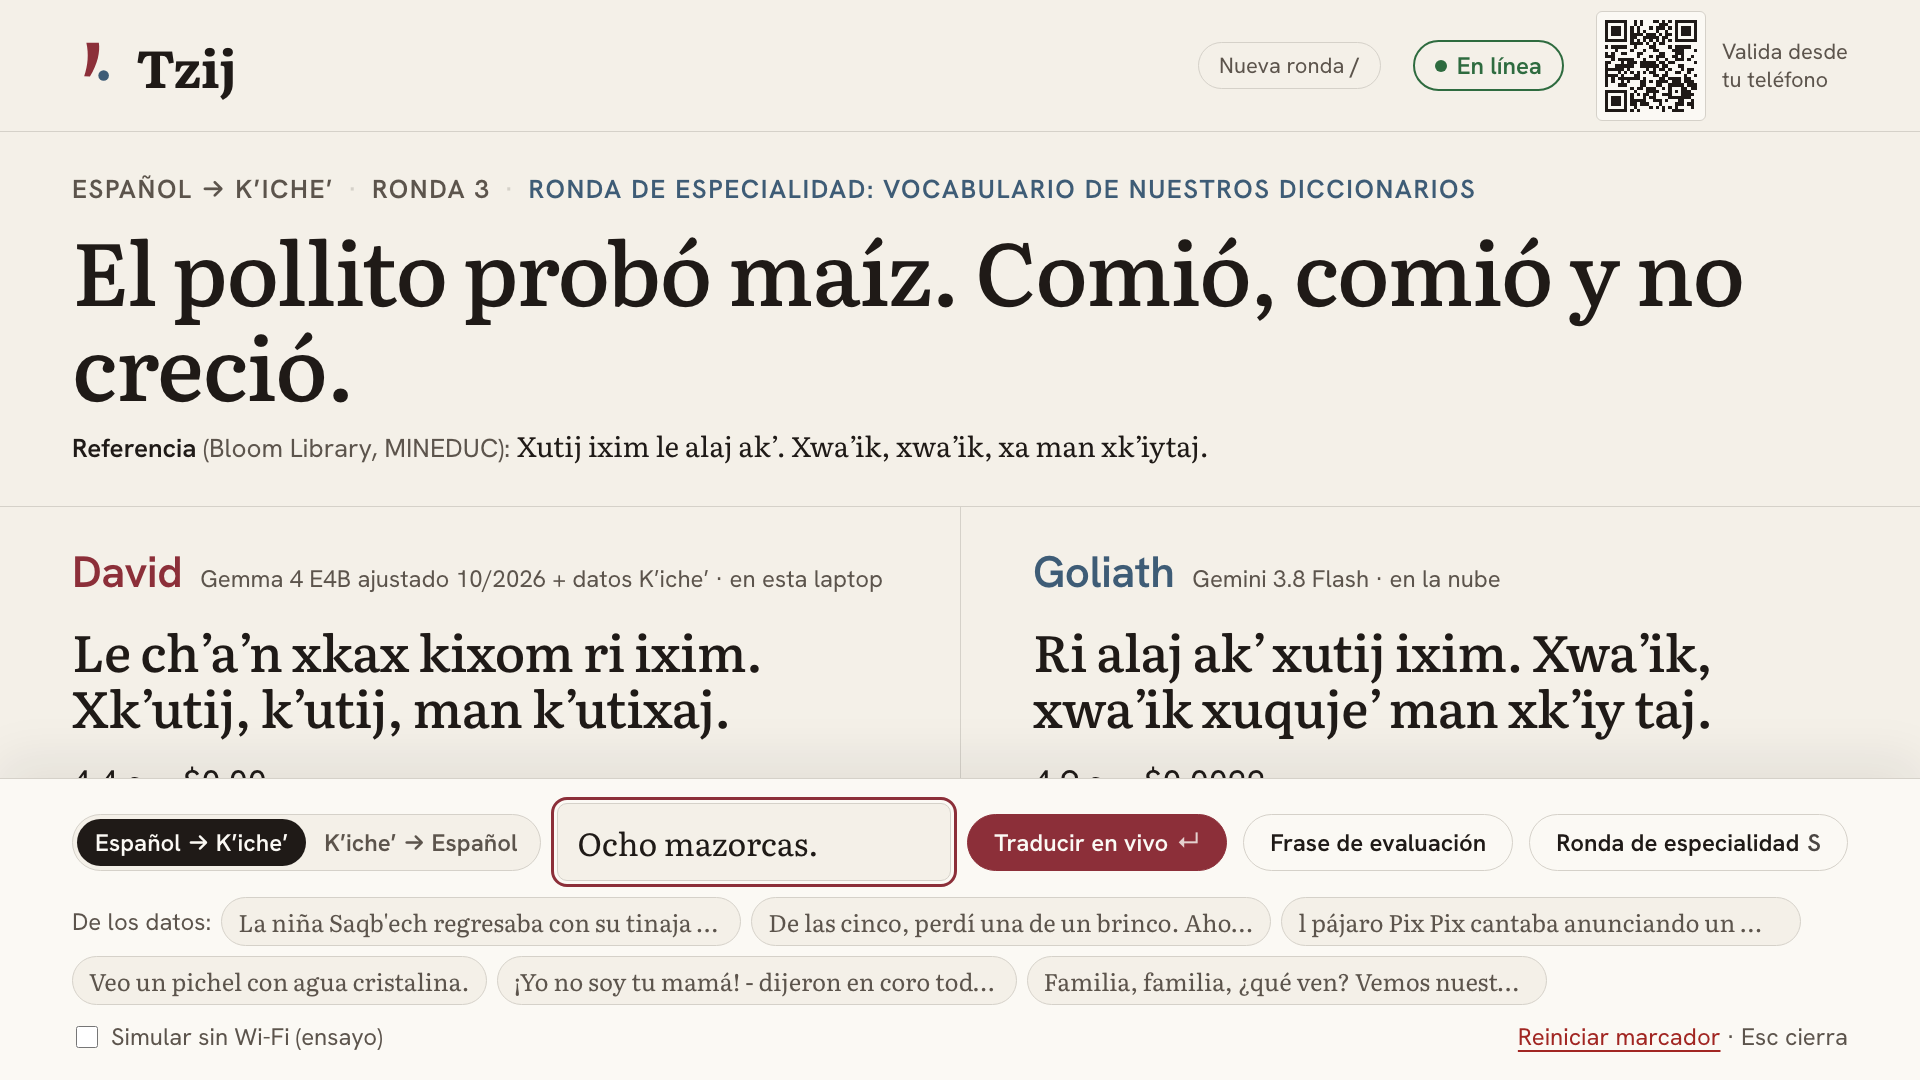
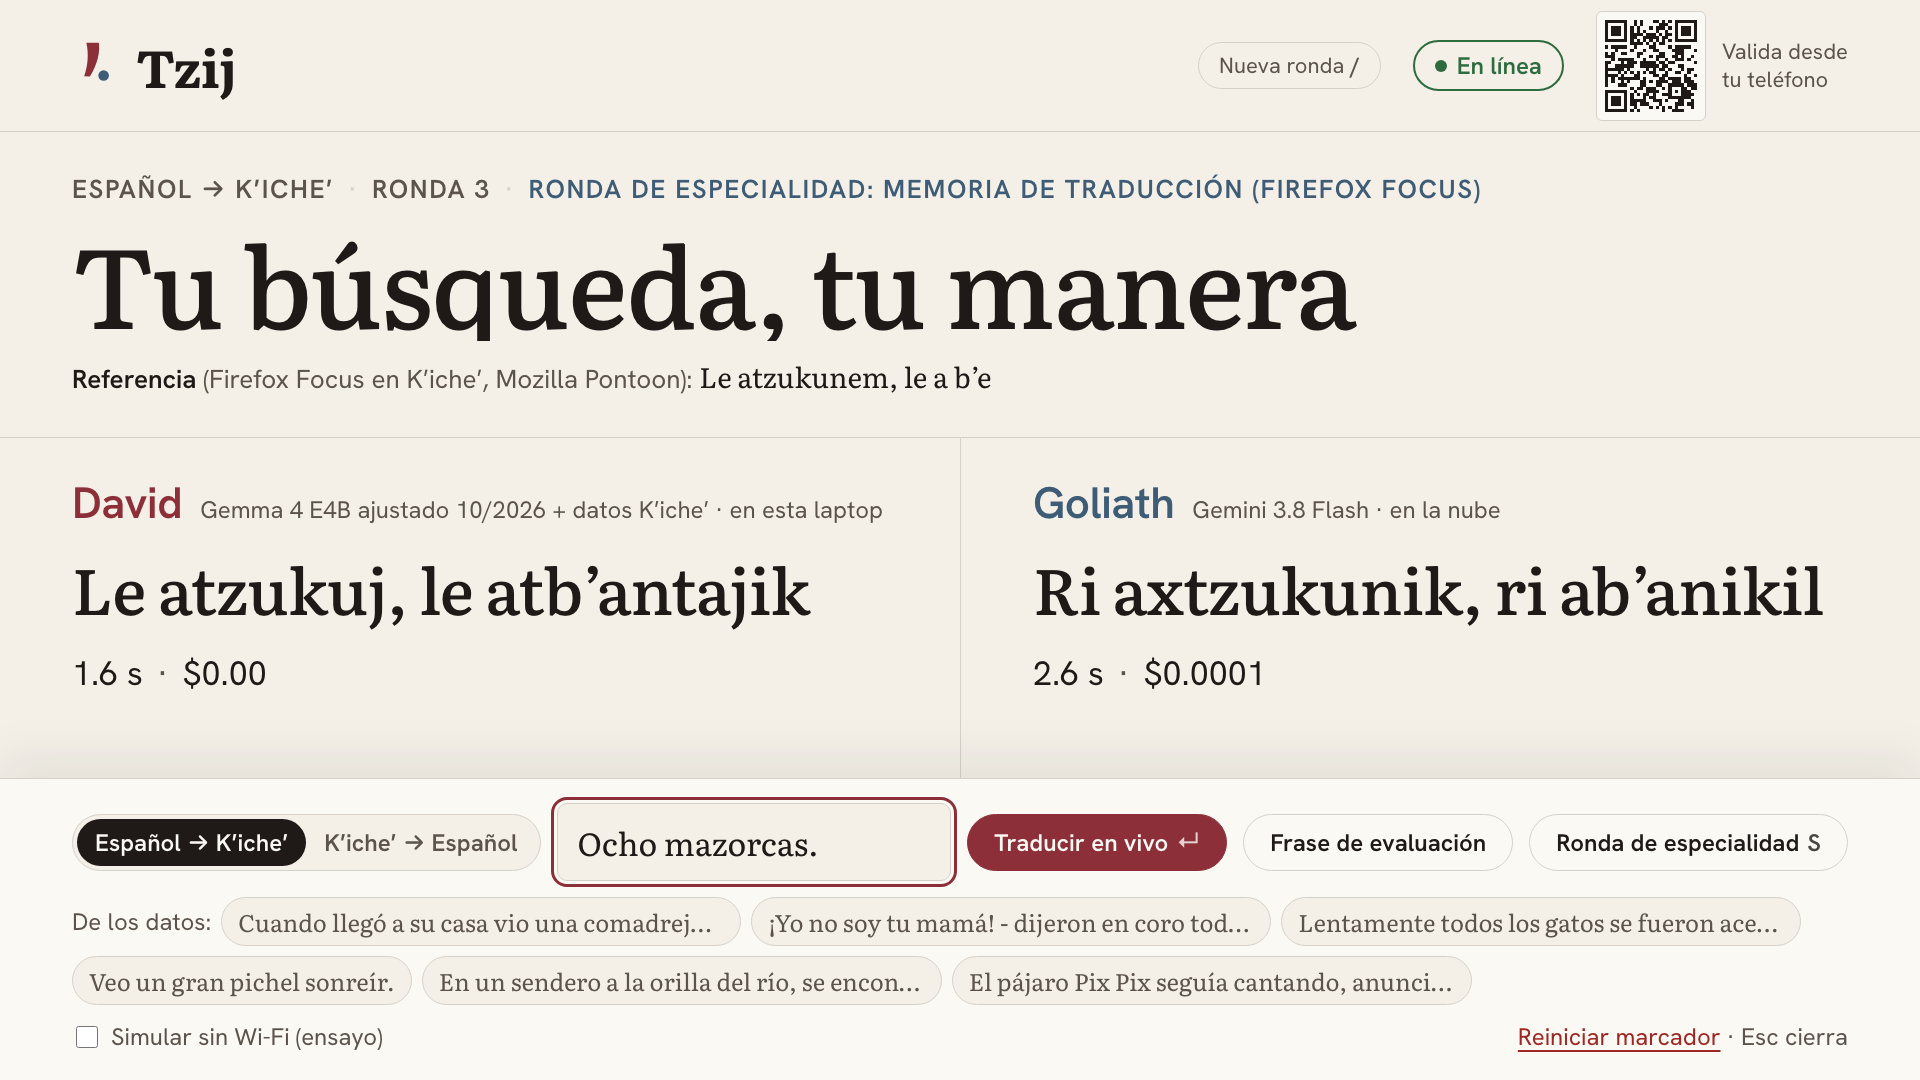
A/B runs recorded (loss logged); manifest counts follow the niche dataset; reference label for Pontoon; DEMO screenshots retaken (specialty round = Firefox Focus)

diff --git a/web/app/presentador/page.tsx b/web/app/presentador/page.tsx
@@ -8,7 +8,7 @@ import { ModelCardPanel, ModelCardStrip } from "@/components/presenter/ModelCard
 import { Scoreboard } from "@/components/presenter/Scoreboard";
 import { Side } from "@/components/presenter/Side";
 import { phraseSize } from "@/components/presenter/sizing";
-import { directionLabel, displayKiche, displaySource, roundKindLabel } from "@/lib/kiche";
+import { directionLabel, displayKiche, displaySource, referenceLabel, roundKindLabel } from "@/lib/kiche";
 import type { Direction, PresenterState } from "@/lib/types";
 import { postJSON, useEventState } from "@/lib/useEventState";
 
@@ -106,7 +106,7 @@ export default function Presenter() {
           </p>
           {reference && (
             <p className="phrase__reference">
-              <b>Referencia</b> ({round.reference_meta?.source_name === "bloom_kiche" ? "Bloom Library, MINEDUC" : round.reference_meta?.source_name}):{" "}
+              <b>Referencia</b> ({referenceLabel(round.reference_meta?.source_name)}):{" "}
               <span className={round.direction === "es-quc" ? "kiche" : undefined}>
                 {round.direction === "es-quc" ? displayKiche(reference) : reference}
               </span>

diff --git a/web/lib/kiche.ts b/web/lib/kiche.ts
@@ -66,3 +66,12 @@ export function roundKindLabel(round: Pick<Round, "kind" | "reference_meta">): s
   if (round.kind === "en_vivo") return "En vivo";
   return round.reference_meta?.specialty ? SPECIALTY_LABEL : "Evaluación";
 }
+
+const REFERENCE_LABELS: Record<string, string> = {
+  bloom_kiche: "Bloom Library, MINEDUC",
+  pontoon_mozilla: "Firefox Focus en Kʼicheʼ, Mozilla Pontoon",
+};
+
+export function referenceLabel(sourceName: string | undefined): string {
+  return (sourceName && REFERENCE_LABELS[sourceName]) || sourceName || "";
+}

diff --git a/pipeline/niche.py b/pipeline/niche.py
@@ -218,12 +218,39 @@ def build(dataset: Path) -> dict:
                "terminology_added": term_stats}
     manifest.update(version=version, derived_from=dataset.name, niche=summary)
     (out / "manifest.json").write_text(json.dumps(manifest, indent=2, ensure_ascii=False) + "\n")
+    refresh_manifest(out)
     (dataset.parent / "LATEST").write_text(version + "\n")
     frozen = {"dataset": version, "definition": "evals/niche.md",
               "terms": {r["id"]: terms[r["id"]] for r in held}}
     TERMS.write_text(json.dumps(frozen, indent=1, ensure_ascii=False) + "\n", encoding="utf-8")
     return {**summary, "version": version, "kinds": dict(Counter(r["kind"] for r in niche)),
             "pairs_with_terms": sum(bool(v) for v in terms.values()), "terms": sum(len(v) for v in terms.values())}
+
+
+def refresh_manifest(out: Path) -> dict:
+    """Counts in the manifest follow the files (the model card on stage reads them)."""
+    from pipeline.sources import cldr, floresmayas
+
+    manifest = json.loads((out / "manifest.json").read_text())
+    by_source: dict[str, dict[str, int]] = defaultdict(lambda: defaultdict(int))
+    by_split: dict[str, int] = {}
+    for split in ("train", "dev", "test", "test_niche"):
+        path = out / f"{split}.jsonl"
+        if not path.exists():
+            continue
+        rows = [r for r in _read(path) if r["direction"] == "es-quc"]
+        by_split[split] = len(rows)
+        for r in rows:
+            by_source[r["source_name"]][split] += 1
+    known = {s["name"] for s in manifest["sources"]}
+    for src in (cldr.SOURCE, floresmayas.SOURCE):
+        if src.name not in known:
+            manifest["sources"].append({"name": src.name, "title": src.title, "owner": src.owner, "url": src.url,
+                                        "license": src.license, "role": src.role})
+    manifest["pairs_by_source"] = {k: dict(v) for k, v in by_source.items()}
+    manifest["pairs_by_split"] = by_split
+    (out / "manifest.json").write_text(json.dumps(manifest, indent=2, ensure_ascii=False) + "\n")
+    return manifest
 
 
 def niche_dataset(processed: Path) -> Path | None:

diff --git a/duel/tzij_duel/model_card.py b/duel/tzij_duel/model_card.py
@@ -22,6 +22,8 @@ SOURCE_LABELS = {
     "gatitos": "Léxico GATITOS (Google)",
     "panlex": "PanLex",
     "wiktionary_es": "Wikcionario",
+    "cldr_quc": "Nombres de Unicode CLDR en Kʼicheʼ",
+    "floresmayas_quc": "Glosario FLORES-Mayas",
 }
 
 MONTHS = ["enero", "febrero", "marzo", "abril", "mayo", "junio", "julio", "agosto",
